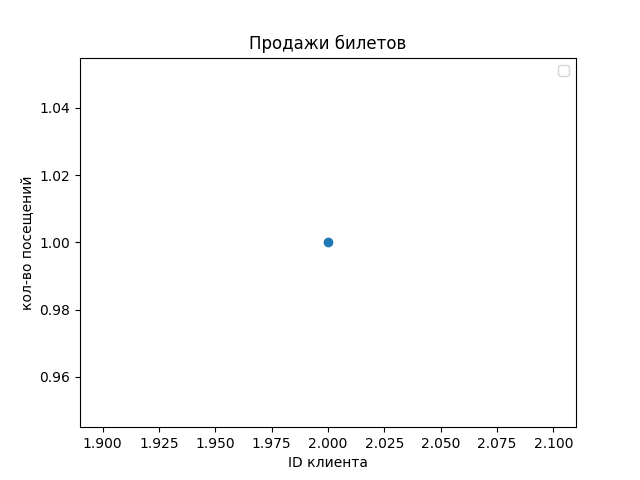
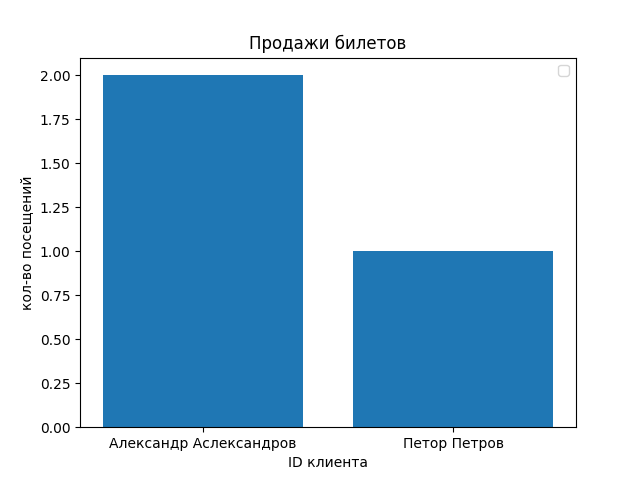
change graphics

diff --git a/backend/API/apps/grafics/crud.py b/backend/API/apps/grafics/crud.py
@@ -1,9 +1,13 @@
-from sqlalchemy.orm import Session
-from datetime import datetime
-from apps.place_routers.models import place_info 
-from apps.ticket_info_routers.models import ticket_info
-import matplotlib.pyplot as plt
 import pandas as pd
+import matplotlib.pyplot as plt
+from apps.place_routers.models import place_info
+from apps.ticket_info_routers.models import ticket_info
+from apps.client_routers.models import client_info
+from apps.session_info_routers.models import session_info, film_on_session
+from apps.film_info_routers.models import film_info
+
+from apps.employee_routers.models import employee_info
+
 
 def get_place_info(db):
     place_data = db.query(place_info).all()
@@ -11,52 +15,95 @@ def get_place_info(db):
     place_df.loc[(place_df['placeType'] == 'базовое'), 'placeType'] = 0
     place_df.loc[(place_df['placeType'] == 'премиум'), 'placeType'] = 1
     fig, ax = plt.subplots()
-    ax.set_title('Расределение мест по залам') 
+    ax.set_title('Расределение мест по залам')
     ax.set_xlabel('ID зала')
     ax.set_ylabel('Качество места (Больше - лучше)')
-    ax.scatter(x = place_df['idHall'], y = place_df['placeType'])
+    ax.scatter(x=place_df['idHall'], y=place_df['placeType'])
     ax.legend()
     fig.savefig('graphics/hall_info')
     return 'OK'
 
+
 def get_ticket_info(db, min_date, max_date):
     ticket_data = db.query(ticket_info).all()
     ticket_df = pd.DataFrame([o.__dict__ for o in ticket_data])
-    ticket_df = ticket_df[(ticket_df['startTime'] >= min_date) & (ticket_df['startTime'] <= max_date)]
-    print(ticket_df)
+    ticket_df = ticket_df[(ticket_df['startTime'] >= min_date) & (
+        ticket_df['startTime'] <= max_date)]
     fig, ax = plt.subplots()
-    ax.set_title('Продажи билетов') 
+    ax.set_title('Продажи билетов')
     ax.set_xlabel('цены за билет')
     ax.set_ylabel('дата продажи')
-    ax.scatter(x = ticket_df['startTime'], y = ticket_df['ticketCost'])
+    ax.scatter(x=ticket_df['startTime'], y=ticket_df['ticketCost'])
     ax.legend()
     fig.savefig('graphics/ticket_info')
     return 'OK'
 
+
 def get_employee_info(db):
     ticket_data = db.query(ticket_info).all()
     ticket_df = pd.DataFrame([o.__dict__ for o in ticket_data])
+    employee_data = db.query(employee_info).all()
+    employee_df = pd.DataFrame([o.__dict__ for o in employee_data])
+
+    ticket_df = ticket_df.merge(
+        employee_df, left_on='idEmployee', right_on='idEmployee')
+    ticket_df['All_name'] = ticket_df['Name'] + ' ' + ticket_df['Surname']
     count = ticket_df['idEmployee'].value_counts()
     fig, ax = plt.subplots()
-    ax.set_title('Продажи билетов') 
+    print(ticket_df['All_name'])
+    print(count)
+    ax.set_title('Продажи билетов')
     ax.set_xlabel('ID сотруднка')
     ax.set_ylabel('кол-во продаж')
-    ax.scatter(x = count.keys(), y = count.values)
+    ax.bar(pd.unique(ticket_df['All_name']), count.values)
     ax.legend()
     fig.savefig('graphics/employee_info')
     return 'OK'
 
+
 def get_client_info(db):
     ticket_data = db.query(ticket_info).all()
+    client_data = db.query(client_info).all()
     ticket_df = pd.DataFrame([o.__dict__ for o in ticket_data])
+    client_df = pd.DataFrame([o.__dict__ for o in client_data])
+    ticket_df = ticket_df.merge(
+        client_df, left_on='idClient', right_on='idClient')
+    
+    ticket_df['All_name'] = ticket_df['Name'] + ' ' + ticket_df['Surname']
     count = ticket_df['idClient'].value_counts()
-    print(count.values)
-    print(count.keys()) 
     fig, ax = plt.subplots()
-    ax.set_title('Продажи билетов') 
+    ax.bar(pd.unique(ticket_df['All_name']), count.values)
+    ax.set_title('Продажи билетов')
     ax.set_xlabel('ID клиента')
     ax.set_ylabel('кол-во посещений')
-    ax.scatter(x = count.keys(), y = count.values)
     ax.legend()
     fig.savefig('graphics/client_info')
+    return 'OK'
+
+def get_film_info(db):
+    ticket_data = db.query(ticket_info).all()
+    ticket_df = pd.DataFrame([o.__dict__ for o in ticket_data])
+    session_data = db.query(session_info).all()
+    film_data = db.query(film_info).all() 
+    session_df = pd.DataFrame([o.__dict__ for o in session_data])
+    
+    ticket_df = ticket_df.merge(
+        session_df, left_on='idSession', right_on='idSession')
+    
+    film_on_session_data = db.query(film_on_session).all()
+    film_on_session_df = pd.DataFrame([o.__dict__ for o in film_on_session_data])
+    # print(film_on_session_df)
+    ticket_df = ticket_df.merge(
+        film_on_session_df, left_on='idSession', right_on='idSession')
+    film_df = pd.DataFrame([o.__dict__ for o in film_data])
+    print(ticket_df[['idTransaction','idFilm']])
+    ticket_df = ticket_df.merge(
+        film_df, left_on='idFilm', right_on='idFilm')
+    fig, ax = plt.subplots()
+    ax.set_title('Продажи билетов')
+    ax.set_xlabel('название фильма')
+    ax.set_ylabel('кол-во продаж')
+    ax.bar(ticket_df['nameFilm'], ticket_df['idTransaction'])
+    ax.legend()
+    fig.savefig('graphics/films_tickets_info')
     return 'OK'

diff --git a/backend/API/apps/grafics/routers.py b/backend/API/apps/grafics/routers.py
@@ -23,4 +23,4 @@ async def get_place_info(min_date:datetime, max_date:datetime, db: Session = Dep
     crud.get_ticket_info(db, min_date, max_date)
     crud.get_employee_info(db)
     crud.get_client_info(db)
-
+    crud.get_film_info(db)
